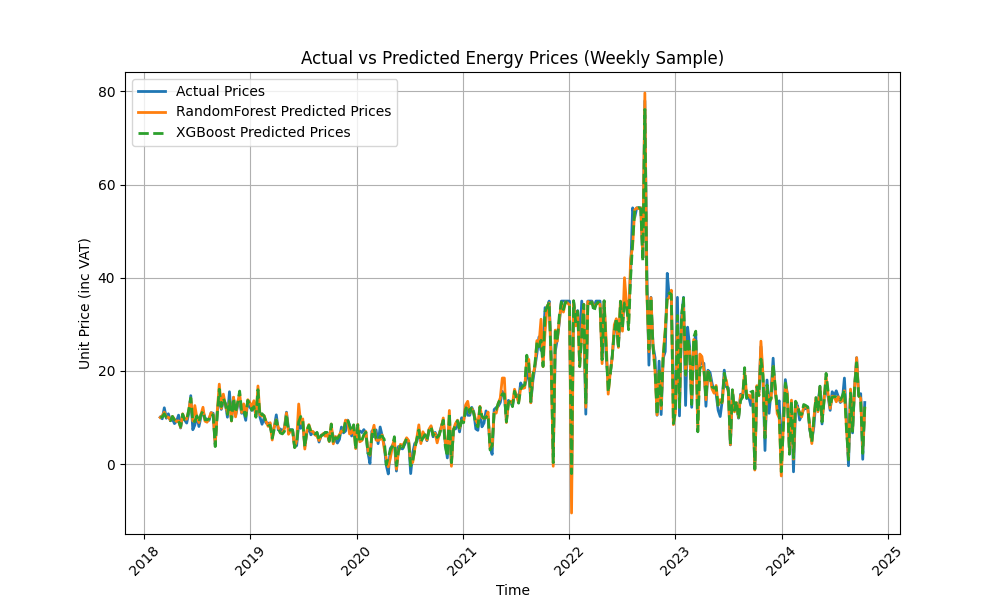
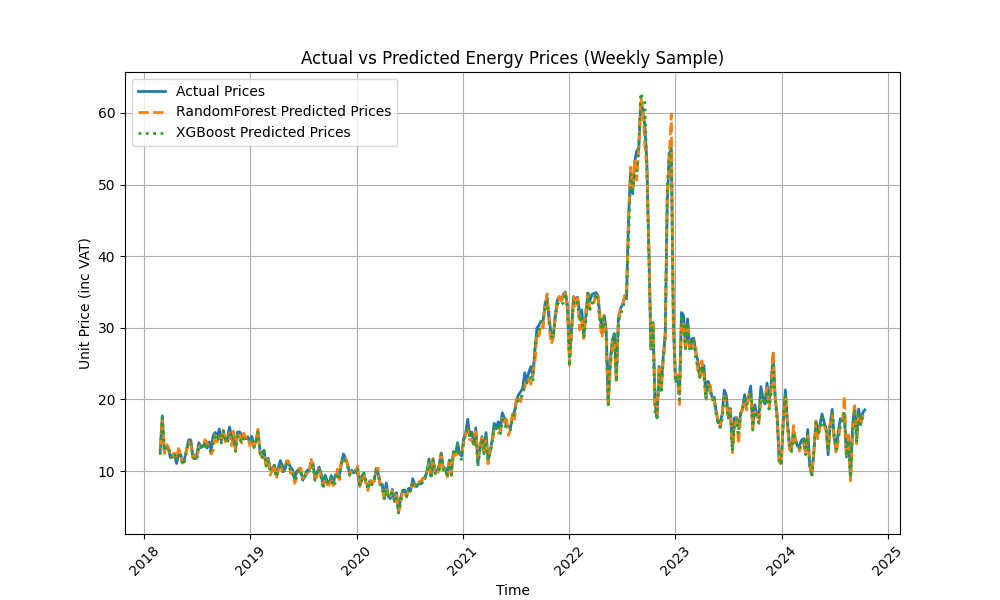
weekly

diff --git a/src/main.py b/src/main.py
@@ -1,4 +1,27 @@
-import pandas as pd
+"""
+This script trains, evaluates, and visualises RandomForest and XGBoost models for price prediction.
+
+Steps:
+1. **Data Loading and Preprocessing**:
+   - Loads data from a CSV file and preprocesses it using `preprocess_data`.
+   - Defines features (X) and target (y), then splits the data into training and test sets.
+
+2. **Model Training and Prediction**:
+   - Trains RandomForest and XGBoost models using the `MLModel` class.
+   - Makes predictions on the test set with both models.
+
+3. **Model Evaluation**:
+   - Evaluates model performance using the `Report` class and saves reports.
+
+4. **Plotting**:
+   - Resamples data to weekly frequency and generates prediction plots with `Plotter`.
+   - Saves plots and evaluation results to the output folder.
+
+Modules Used:
+- `sklearn.model_selection.train_test_split`
+- `MLModel`, `Report`, `Plotter`, `preprocess_data`
+"""
+
 from sklearn.model_selection import train_test_split
 from ml_model import MLModel
 from report import Report
@@ -13,7 +36,9 @@ X = data[['hour', 'day_of_week', 'unit_price_lag_1']]
 y = data['Unit Price (inc VAT)']
 
 # Split data into training and testing sets
-X_train, X_test, y_train, y_test = train_test_split(X, y, test_size=0.2, random_state=42)
+X_train, X_test, y_train, y_test = train_test_split(
+    X, y, test_size=0.2, random_state=42
+)
 
 # Step 2: Machine Learning Models
 ml_model = MLModel()
@@ -31,15 +56,19 @@ predictions = {'RandomForest': rf_predictions, 'XGBoost': xgb_predictions}
 
 # Step 3: Model Evaluation
 report = Report()
-report.evaluate_model(y_test, rf_predictions, 'RandomForest', output_folder='output')
-report.evaluate_model(y_test, xgb_predictions, 'XGBoost', output_folder='output')
+report.evaluate_model(
+    y_test, rf_predictions, 'RandomForest', output_folder='output'
+)
+report.evaluate_model(
+    y_test, xgb_predictions, 'XGBoost', output_folder='output'
+)
 
 # Step 4: Plotting Results
 plotter = Plotter()
 
 # Resample the data to weekly frequency for a simpler plot
-y_test_weekly = y_test.resample('W').first()
-X_test_weekly = X_test.resample('W').first()
+y_test_weekly = y_test.resample('W').mean()
+X_test_weekly = X_test.resample('W').mean()
 
 # Drop any rows with NaN after resampling
 y_test_weekly.dropna(inplace=True)
@@ -50,8 +79,16 @@ rf_predictions_weekly = ml_model.predict('RandomForest', X_test_weekly)
 xgb_predictions_weekly = ml_model.predict('XGBoost', X_test_weekly)
 
 # Plotting and saving results
-plotter.plot_predictions(y_test_weekly, {'RandomForest': rf_predictions_weekly, 'XGBoost': xgb_predictions_weekly}, output_folder='output')
+plotter.plot_predictions(
+    y_test_weekly,
+    {'RandomForest': rf_predictions_weekly, 'XGBoost': xgb_predictions_weekly},
+    output_folder='output'
+)
 
 # Save evaluation report
-report.evaluate_model(y_test, rf_predictions, 'RandomForest', output_folder='output')
-report.evaluate_model(y_test, xgb_predictions, 'XGBoost', output_folder='output')
+report.evaluate_model(
+    y_test, rf_predictions, 'RandomForest', output_folder='output'
+    )
+report.evaluate_model(
+    y_test, xgb_predictions, 'XGBoost', output_folder='output'
+    )

diff --git a/src/ml_model.py b/src/ml_model.py
@@ -1,3 +1,8 @@
+"""
+This module provides an MLModel class for training and predicting with
+RandomForest and XGBoost models.
+"""
+
 import numpy as np
 import xgboost as xgb
 from sklearn.ensemble import RandomForestRegressor
@@ -7,16 +12,27 @@ logging.basicConfig(level=logging.INFO)
 
 
 class MLModel:
+    """
+    A machine learning model wrapper for training and predicting with 
+    RandomForest and XGBoost models.
+    """
     def __init__(self):
         # Initialize models
         self.models = {
-            'RandomForest': RandomForestRegressor(n_estimators=100, random_state=42),
-            'XGBoost': xgb.XGBRegressor(objective='reg:squarederror', n_estimators=100, random_state=42)
+            'RandomForest': RandomForestRegressor(
+                n_estimators=100, random_state=42
+                ),
+            'XGBoost': xgb.XGBRegressor(
+                objective='reg:squarederror', n_estimators=100, random_state=42
+                )
         }
         self.trained_models = {}  # Store trained models
         self.predictions = {}  # Store predictions from models
 
-    def train(self, model_name: str, X_train: np.ndarray, y_train: np.ndarray) -> None:
+    def train(self, model_name: str,
+              X_train: np.ndarray,
+              y_train: np.ndarray
+              ) -> None:
         """
         Trains a machine learning model.
 
@@ -35,7 +51,9 @@ class MLModel:
             self.trained_models[model_name] = model  # Save trained model
             logging.info(f'{model_name} training finished.')
         except Exception as e:
-            logging.error(f'Error occurred during {model_name} training: {str(e)}')
+            logging.error(
+                f'Error occurred during {model_name} training: {str(e)}'
+                )
 
     def predict(self, model_name: str, X_test: np.ndarray) -> np.ndarray:
         """

diff --git a/src/plotter.py b/src/plotter.py
@@ -22,9 +22,9 @@ class Plotter:
         output_path.mkdir(parents=True, exist_ok=True)
 
         # Define different line styles to differentiate the models visually
-        line_styles = ['-', '--', ':', '-.']
+        line_styles = ['--', ':', '-.']
 
-        # Initialize the plot
+        # Initialise the plot
         plt.figure(figsize=(10, 6))
 
         # Plot actual values
@@ -35,7 +35,7 @@ class Plotter:
             plt.plot(y_test.index, preds, label=f'{model_name} Predicted Prices',
                      linewidth=2, linestyle=line_styles[i % len(line_styles)])
 
-        # Customize the plot's appearance
+        # Customise the plot's appearance
         plt.legend()
         plt.title(title)
         plt.xlabel('Time')

diff --git a/src/data_preprocessing.py b/src/data_preprocessing.py
@@ -1,5 +1,4 @@
 import pandas as pd
-from pathlib import Path
 
 def preprocess_data(file_path: str) -> pd.DataFrame:
     """
